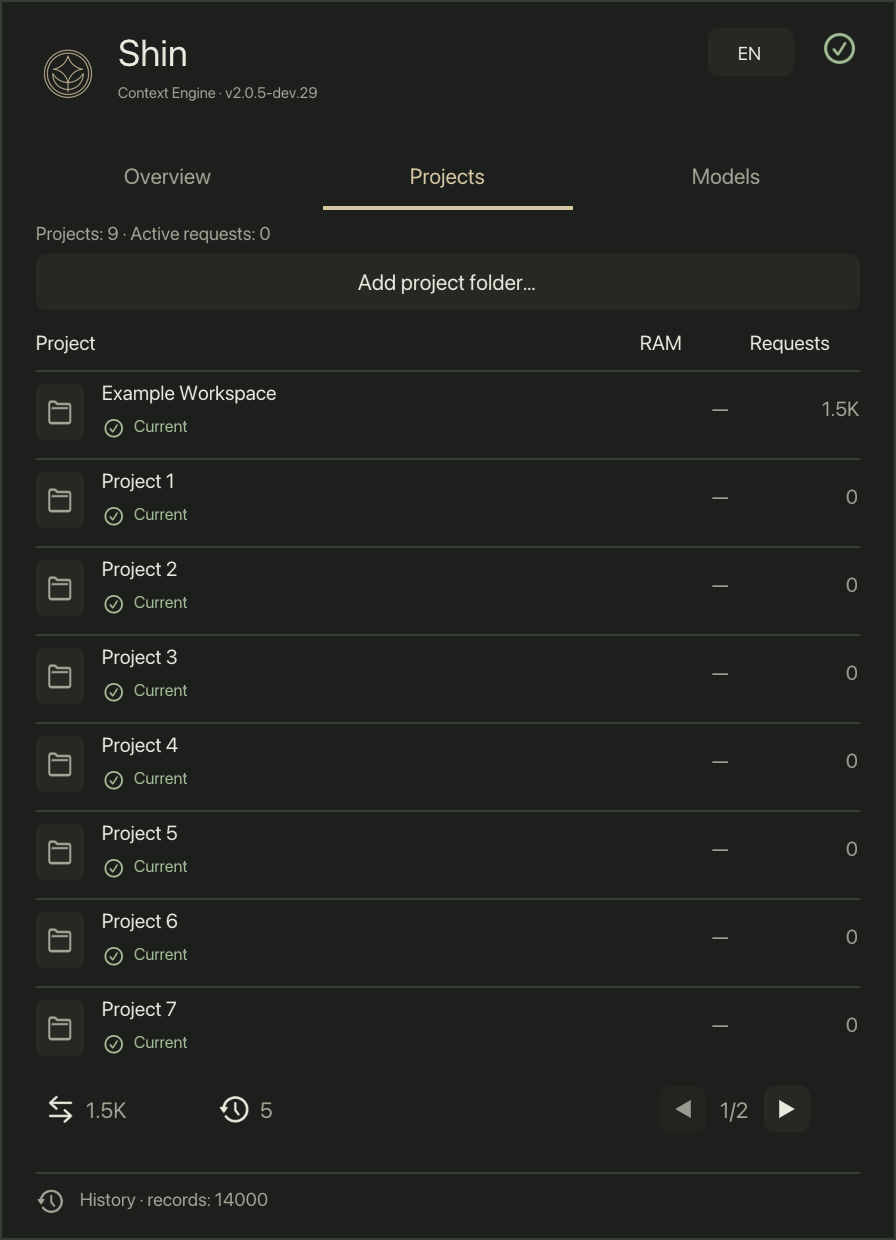
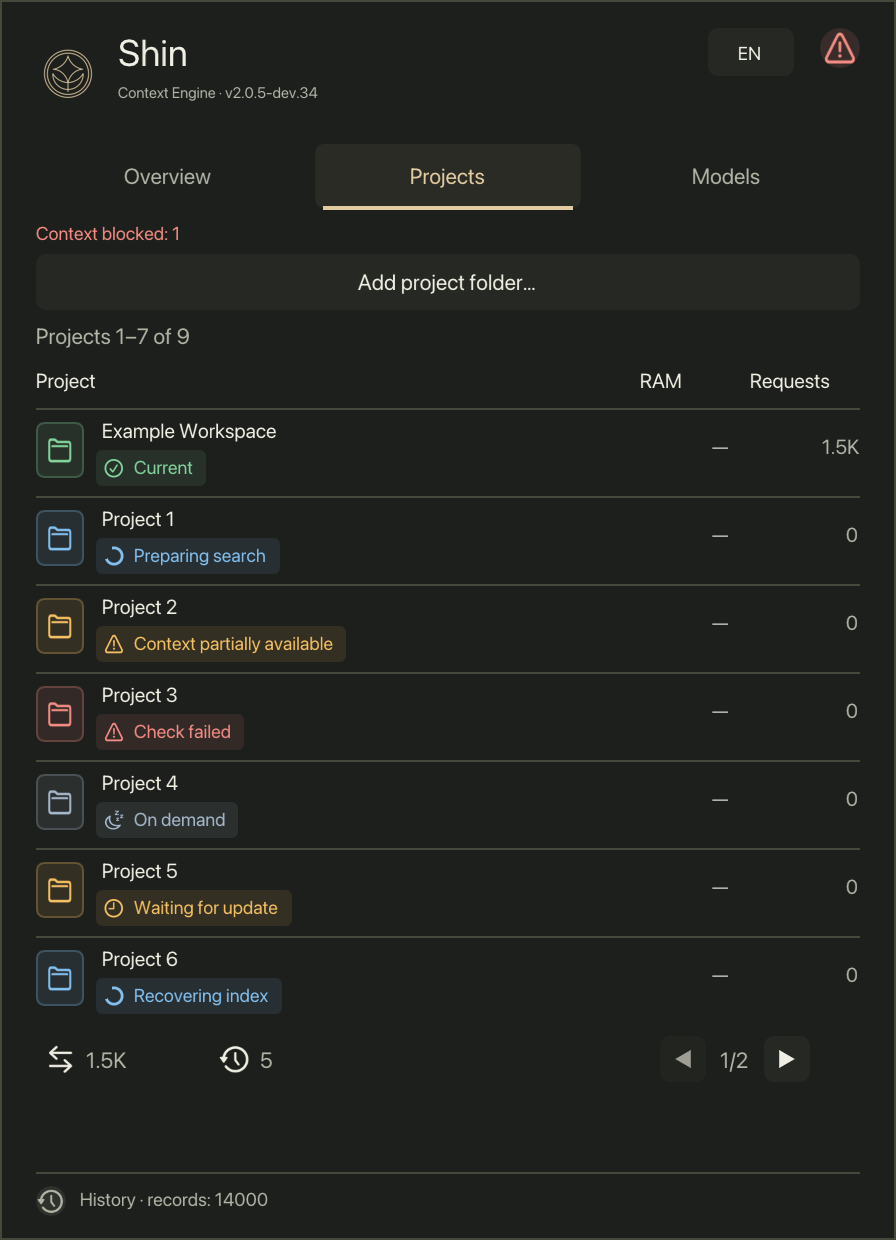
fix(monitor): clarify Sand status colors (#23)
Separate readiness, preparation, warning and failure colors.
Keep compact project controls above the footer.

Refresh native README screenshots and prepare preview dev.34.

diff --git a/observer/tray/monitor_view.h b/observer/tray/monitor_view.h
@@ -274,12 +274,13 @@ std::string platform_version();
 bool platform_reduce_motion();
 void draw_brand(ImVec2 origin, float size);
 
-// Sand: warm graphite surfaces, the original mark's sand accent, quiet data ink.
+// Sand stays warm; status hues remain distinct from the navigation accent.
 constexpr ImVec4 background{.114f, .122f, .110f, 1}, raised{.145f, .157f, .137f, 1};
-constexpr ImVec4 hover_surface{.173f, .188f, .161f, 1}, rule{.220f, .243f, .196f, 1};
-constexpr ImVec4 sand{.839f, .776f, .635f, 1}, ink{.914f, .914f, .867f, 1}, muted{.627f, .647f, .584f, 1};
-constexpr ImVec4 green{.647f, .741f, .596f, 1}, amber{.863f, .757f, .549f, 1};
-constexpr ImVec4 red{.863f, .635f, .596f, 1}, blue{.647f, .725f, .643f, 1};
+constexpr ImVec4 hover_surface{.188f, .204f, .169f, 1}, rule{.267f, .286f, .235f, 1};
+constexpr ImVec4 sand{.894f, .800f, .635f, 1}, ink{.941f, .937f, .890f, 1}, muted{.690f, .710f, .651f, 1};
+constexpr ImVec4 green{.510f, .831f, .608f, 1}, amber{.957f, .753f, .384f, 1};
+constexpr ImVec4 red{.961f, .549f, .514f, 1}, blue{.510f, .753f, .941f, 1};
+constexpr ImVec4 idle_ink{.647f, .718f, .792f, 1};
 
 ImU32 alpha_color(ImVec4 color, float alpha) {
     color.w *= alpha;
@@ -363,15 +364,18 @@ ImVec4 phase_color(const std::string& phase, bool connected) {
     if (!connected) return muted;
     if (phase == "current") return green;
     if (phase == "blocked") return red;
-    if (phase == "checking" || phase == "stopped") return muted;
+    if (phase == "checking") return blue;
+    if (phase == "stopped") return muted;
     return amber;
 }
 
-ImVec4 project_color(shin::ui::ProjectState state) {
+ImVec4 project_color(shin::ui::ProjectState state, const Json& project) {
     if (state == shin::ui::ProjectState::blocked) return red;
+    if (state == shin::ui::ProjectState::checking || state == shin::ui::ProjectState::recovering ||
+        (state == shin::ui::ProjectState::pending && shin::ui::text_field(project, "query_phase") == "preparing")) return blue;
     if (state == shin::ui::ProjectState::pending) return amber;
-    if (state == shin::ui::ProjectState::recovering) return blue;
     if (state == shin::ui::ProjectState::current) return green;
+    if (state == shin::ui::ProjectState::standby) return idle_ink;
     return muted;
 }
 
@@ -510,6 +514,8 @@ void icon_button(Icon icon, const std::string& label, int code, bool enabled, Im
 
 void status_badge(Icon icon, const std::string& label, ImVec4 color, int accessible_id, float size = 17) {
     const auto origin = ImGui::GetCursorScreenPos();
+    ImGui::GetWindowDrawList()->AddCircleFilled({origin.x + size / 2, origin.y + size / 2}, size / 2,
+        alpha_color(color, .12f));
     draw_icon(icon, origin, size, color);
     ImGui::Dummy({size, size});
     if (ImGui::IsItemHovered()) {
@@ -607,6 +613,8 @@ void view_tab(const char* label, int code, bool active, float width) {
         alpha_color(hover_surface, fade), 4);
     if (!navigation && active) draw->AddRectFilled(origin, {origin.x + width, origin.y + height},
         ImGui::GetColorU32(raised), 4);
+    if (navigation && active) draw->AddRectFilled(origin, {origin.x + width, origin.y + height},
+        alpha_color(sand, .07f), 4);
     const auto text_size = ImGui::CalcTextSize(label);
     draw->AddText({origin.x + (width - text_size.x) / 2, origin.y + (height - text_size.y) / 2},
         ImGui::GetColorU32(active ? sand : hovered ? ink : muted), label);
@@ -1384,7 +1392,7 @@ void render_project_diagnostics(const ViewState& view, const Json& project, cons
 
     if (!diagnostic_history_first) {
         const auto origin = ImGui::GetCursorScreenPos();
-        const auto color = partial_coverage ? amber : project_color(state);
+        const auto color = partial_coverage ? amber : project_color(state, project);
         draw_icon(partial_coverage ? Icon::blocked : state_icon(state), {origin.x, origin.y + 1}, 24, color);
         ImGui::SetCursorPosX(32);
         bounded_text(overview.title, width - 32, minimal ? 14.0f : compact_diagnostics ? 16.0f : 18.0f, color, minimal ? 1 : 2, 54);
@@ -1521,15 +1529,24 @@ void render_projects(const ViewState& view, const Json& telemetry, const Json& h
     const float width = ImGui::GetContentRegionAvail().x;
 #if defined(__APPLE__)
     const bool project_busy = project_management_busy.load();
+    const bool compact_actions = ImGui::GetIO().DisplaySize.y < 300;
     ImGui::BeginDisabled(project_busy);
-    if (ImGui::Button(project_busy ? shin::ui::tr("Operation in progress…") : shin::ui::tr("Add project folder…"), {width, 28})) activate(80);
+    if (ImGui::Button(compact_actions ? "+##add-project" :
+        project_busy ? shin::ui::tr("Operation in progress…") : shin::ui::tr("Add project folder…"),
+        {compact_actions ? 24.0f : width, compact_actions ? 24.0f : 28.0f})) activate(80);
+    if (compact_actions && ImGui::IsItemHovered(ImGuiHoveredFlags_AllowWhenDisabled))
+        ImGui::SetTooltip("%s", project_busy ? shin::ui::tr("Project operation in progress") : shin::ui::tr("Add project folder…"));
     ui_actions.push_back({project_busy ? shin::ui::tr("Project operation in progress") : shin::ui::tr("Add project folder…"), "",
         ImGui::GetItemRectMin(), ImGui::GetItemRectSize(), 80, !project_busy});
     ImGui::EndDisabled();
+    if (compact_actions && !projects.empty()) ImGui::SameLine();
 #endif
     const bool detailed = width >= 310 && ImGui::GetIO().DisplaySize.y >= 400;
     const float row_height = detailed ? 44.0f : 26.0f;
-    const float count_height = projects.empty() ? 0.0f : ImGui::GetTextLineHeightWithSpacing();
+    float count_height = projects.empty() ? 0.0f : ImGui::GetTextLineHeightWithSpacing();
+#if defined(__APPLE__)
+    if (compact_actions && !projects.empty()) count_height = 24.0f + ImGui::GetStyle().ItemSpacing.y;
+#endif
     const auto layout = shin::ui::project_table_layout(ImGui::GetContentRegionAvail().y - count_height, static_cast<int>(projects.size()), row_height);
     project_page = std::clamp(project_page, 0, layout.pages - 1);
     if (!projects.empty()) {
@@ -1537,6 +1554,9 @@ void render_projects(const ViewState& view, const Json& telemetry, const Json& h
         std::snprintf(range, sizeof(range), shin::ui::tr("Projects %d–%d of %d"),
             project_page * layout.page_size + 1,
             std::min((project_page + 1) * layout.page_size, static_cast<int>(projects.size())), static_cast<int>(projects.size()));
+#if defined(__APPLE__)
+        if (compact_actions) ImGui::AlignTextToFramePadding();
+#endif
         ImGui::TextColored(muted, "%s", range);
         ui_actions.push_back({range, "", ImGui::GetItemRectMin(), ImGui::GetItemRectSize(), 88, true, true});
     }
@@ -1571,7 +1591,7 @@ void render_projects(const ViewState& view, const Json& telemetry, const Json& h
                 (state == shin::ui::ProjectState::pending && shin::ui::text_field(p, "query_phase") == "preparing");
             const auto state_label = state == shin::ui::ProjectState::blocked || partial || preparing
                 ? overview.title : std::string(shin::ui::state_text(state));
-            const auto state_color = partial ? amber : project_color(state);
+            const auto state_color = partial ? amber : project_color(state, p);
             const auto elapsed = view.received == Clock::time_point{} ? 0 : std::chrono::duration<double, std::milli>(Clock::now() - view.received).count();
             const auto success = shin::ui::age_ms(p, "last_success_age_ms", elapsed);
             const auto age = shin::ui::tr("Successful: ") + shin::ui::age_text(success);
@@ -1595,19 +1615,28 @@ void render_projects(const ViewState& view, const Json& telemetry, const Json& h
             auto* draw = ImGui::GetWindowDrawList();
             const float text_x = origin.x + (detailed ? 33.0f : 22.0f);
             if (detailed) {
-                draw->AddRectFilled({origin.x, origin.y + 3}, {origin.x + 24, origin.y + 31}, ImGui::GetColorU32(raised), 4);
-                draw_icon(Icon::folder, {origin.x + 4, origin.y + 9}, 16, muted);
+                draw->AddRectFilled({origin.x, origin.y + 3}, {origin.x + 24, origin.y + 31}, alpha_color(state_color, .10f), 4);
+                draw->AddRect({origin.x, origin.y + 3}, {origin.x + 24, origin.y + 31}, alpha_color(state_color, .25f), 4);
+                draw_icon(Icon::folder, {origin.x + 4, origin.y + 9}, 16, state_color);
             }
             draw->AddText({text_x, origin.y + 1}, ImGui::GetColorU32(ink), clipped(name, name_width - (text_x - origin.x)).c_str());
-            const ImVec2 status_origin{detailed ? text_x : origin.x, origin.y + (detailed ? 19.0f : 0.0f)};
+            std::string status_text;
+            if (detailed) {
+                ImGui::PushFont(nullptr, 11);
+                status_text = clipped(state_label, name_width - (text_x - origin.x) - 26);
+                const float badge_width = ImGui::CalcTextSize(status_text.c_str()).x + 25;
+                draw->AddRectFilled({text_x - 3, origin.y + 17}, {text_x - 3 + badge_width, origin.y + 35},
+                    alpha_color(state_color, .10f), 3);
+                ImGui::PopFont();
+            }
+            const ImVec2 status_origin{detailed ? text_x : origin.x, origin.y + (detailed ? 20.0f : 0.0f)};
             const float status_size = detailed ? 12.0f : 17.0f;
             if (preparing)
                 preparation_indicator(status_origin, status_size, state_color);
             else draw_icon(partial ? Icon::blocked : state_icon(state), status_origin, status_size, state_color);
             if (detailed) {
-                ImGui::PushFont(nullptr, 10);
-                draw->AddText({text_x + 16, origin.y + 18}, ImGui::GetColorU32(state_color),
-                    clipped(state_label, name_width - (text_x - origin.x) - 16).c_str());
+                ImGui::PushFont(nullptr, 11);
+                draw->AddText({text_x + 16, origin.y + 19}, ImGui::GetColorU32(state_color), status_text.c_str());
                 ImGui::PopFont();
             }
             ui_actions.push_back({name + ": " + state_label + "; " + age +
@@ -1718,7 +1747,7 @@ void render(const ViewState& view) {
     for (const auto& p : projects) if (shin::ui::active_issue(p)) ++attention;
     const bool registry_problem = view.connected && (!data.value("registry_error", "").empty() ||
         !data.value("enrollment_errors", Json::object()).empty());
-    const auto accent = !view.connected ? muted : attention || registry_problem ? amber : green;
+    const auto accent = !view.connected ? muted : attention || registry_problem ? red : green;
 
     ImGui::SetNextWindowPos({0, 0});
     ImGui::SetNextWindowSize(ImGui::GetIO().DisplaySize);
@@ -1770,8 +1799,8 @@ void render(const ViewState& view) {
         if (ImGui::GetIO().DisplaySize.y >= 300) {
             ImGui::PushFont(nullptr, 11);
             if (!view.connected) ImGui::TextColored(amber, "%s", view.data.is_null() ? shin::ui::tr("Waiting for connection") : shin::ui::tr("Offline · last received data"));
-            else if (attention) ImGui::TextColored(amber, shin::ui::tr("Context blocked: %d"), attention);
-            else if (registry_problem) ImGui::TextColored(amber, "%s", shin::ui::tr("Project connection error"));
+            else if (attention) ImGui::TextColored(red, shin::ui::tr("Context blocked: %d"), attention);
+            else if (registry_problem) ImGui::TextColored(red, "%s", shin::ui::tr("Project connection error"));
             else if (dashboard_view == 2) ImGui::TextColored(muted, shin::ui::tr("Connected projects: %zu of %zu"), shin::ui::mapped_model_projects(*view.usage, projects), projects.size());
             else ImGui::TextColored(muted, shin::ui::tr("Projects: %zu · Active requests: %llu"), projects.size(), data.value("query_workers", 0ULL));
             ImGui::PopFont();

diff --git a/docs/releases/v2.0.5-dev.34.md b/docs/releases/v2.0.5-dev.34.md
@@ -1,0 +1,18 @@
+This preview makes Sand's project statuses easier to distinguish and refreshes the Monitor screenshots in the README.
+
+- Ready projects use mint green; preparation and recovery use sky blue; partial context and waiting use amber; blocked projects use coral red. On-demand readers have a quieter blue-gray tone. Status text and symbols retain their meaning independently of color.
+- Lightly tinted status labels and folder icons reinforce the state. Navigation, secondary text, metrics and the existing line charts have clearer accents. The overall attention indicator uses the same error color as blocked projects.
+- In the smallest window, the add-project action shares a row with the visible project range. Navigation and history controls remain fully visible, with the full action name available to accessibility and through its tooltip.
+- The README's three native Monitor screenshots show the new appearance using synthetic project, history and timing data. No live consumer names, paths or usage are captured.
+
+Local verification includes native EN/RU rendering at five viewport sizes, project-control clipping checks, diagnostics, timing and language/catalog tests. The matching Linux/macOS CI matrix and exact macOS archive must pass before publication.
+
+macOS 15 or newer, Apple Silicon. Ad-hoc signed preview; Developer ID signing and notarization are not included. Core is 2.0.5-dev.4; Observer/CLI/MCP are 2.0.5-dev.34 and Monitor is build 58. Native Windows execution is not part of this preview's qualification.
+
+In Monitor, choose **Check for updates** and confirm that the offered version is **2.0.5-dev.34**. Reconnect persistent MCP clients after updating. Existing project authority, client settings and history remain in the data home.
+
+Alternatively, install the complete preview with:
+
+```sh
+curl -fsSL https://github.com/toseek-samurai/shin-context-engine/releases/download/v2.0.5-dev.34/install.sh | sh
+```

diff --git a/docs/images/README.md b/docs/images/README.md
@@ -7,7 +7,7 @@ is read. Displayed metrics are fixture values, not performance measurements.
 
 | README asset | Native fixture output |
 | --- | --- |
-| `monitor-projects.png` | `projects-448x620.png` |
+| `monitor-projects.png` | `project-states-448x620.png` |
 | `monitor-project.png` | `current-448x620.png` |
 | `monitor-timing.png` | `timing-retained-448x620.png` |
 
@@ -22,7 +22,10 @@ Metal must be available; a skipped render is not a new screenshot. Inspect the
 outputs visually, then copy only the three selected PNGs here without modifying
 their pixels. Each image is rendered at 2x resolution. The screenshots use English; pass `ru` instead of `en` to render Russian.
 Both languages use the same native views and synthetic scenarios.
-The images show the Sand appearance at the standard 448×620 panel size; the
+The images show the dev.34 Sand appearance at the standard 448×620 panel size.
+The project list deliberately mixes ready, preparing, partial, blocked, on-demand,
+waiting and recovering states to demonstrate their distinct colors and symbols.
+The blocked project and displayed counters are synthetic examples. The
 compact layout remains available. Memory curves retain observation gaps and
 service-run boundaries.
 

diff --git a/README.md b/README.md
@@ -28,12 +28,13 @@ its CLI and MCP integrations, and the Monitor interface.
 ## See your project's state
 
 <p>
-  <img src="docs/images/monitor-projects.png" width="280" alt="Shin Monitor lists projects and their current search and observer status">
+  <img src="docs/images/monitor-projects.png" width="280" alt="Shin Monitor's Sand theme distinguishes ready, preparing, partial, blocked and on-demand projects">
   <img src="docs/images/monitor-project.png" width="280" alt="Project detail shows current context, the last check, updates and query history">
   <img src="docs/images/monitor-timing.png" width="280" alt="Request timing separates search time from total service time and preparation">
 </p>
 
-Real Monitor screens rendered with synthetic sample data. Monitor supports
+Sand appearance with distinct status colors, shown in real Monitor screens
+rendered with synthetic sample data. Monitor supports
 English and Russian; these examples use English. Names, counts, and timings above are examples, not benchmark results.
 [Screenshot sources and reproduction](docs/images/README.md).
 
